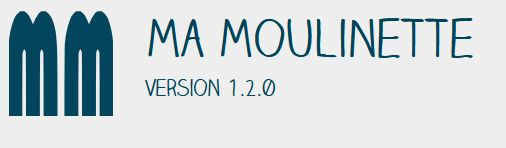
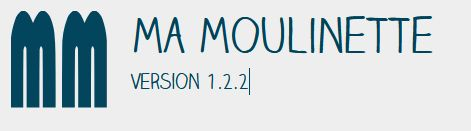
V1.2.2

Changed region(s): [[0.2675, 0.0916, 0.9512, 0.4275], [0.0, 0.0611, 0.2378, 0.855], [0.2675, 0.5191, 0.5648, 0.7023]]

diff --git a/CHANGELOG.md b/CHANGELOG.md
@@ -158,10 +158,10 @@
 ## v1.2.1 - 08/05/2022 - Release
 
 * Erreur : "Cannot instantiate interface Psr\Log\LoggerInterface". On n'utilise plus l'instanciation (new LoggerInterface) mais l'injection de dépendance ;
-* Erreur de syntaxe dans l'utilisation de litterals dans le contrôleur ApiProjetContrôleur ;
+* Erreur de syntaxe dans l'utilisation de littérales dans le contrôleur ApiProjetContrôleur ;
 * Suppression des dépendances inutiles dans HomeControleur et ProfilControleur ;
 * Correction des fautes et erreur de typographie dans le fichier readme.md ;
 
-## v1.3.0 - 08/05/2022 - toDo
+## v1.2.2 - 10/05/2022 - Release
 
-* Ajout du rapport sur les modifications "faux positif" et "Ne sera pas corrigé" ;
+* ApiProjectController : Warning: Undefined array key "date_enregistrement" (ligne 1461) ;
